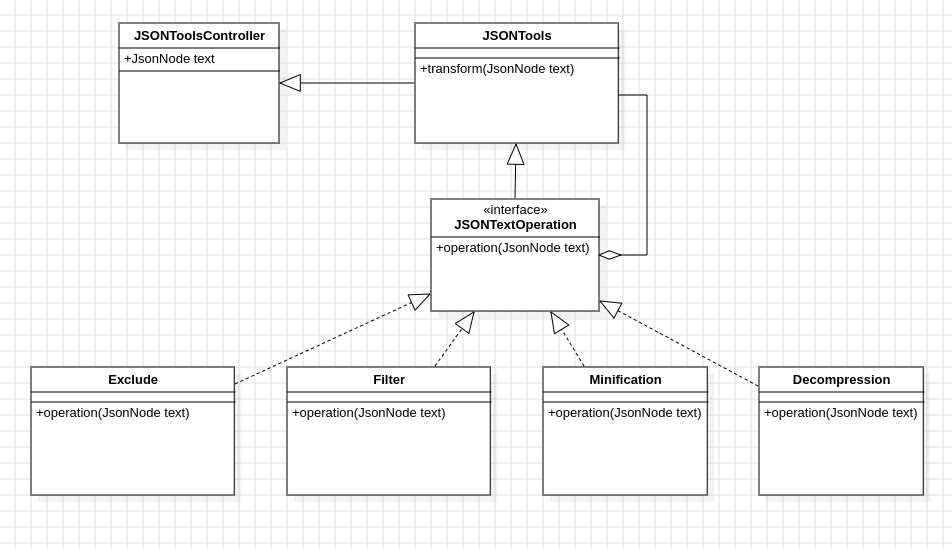
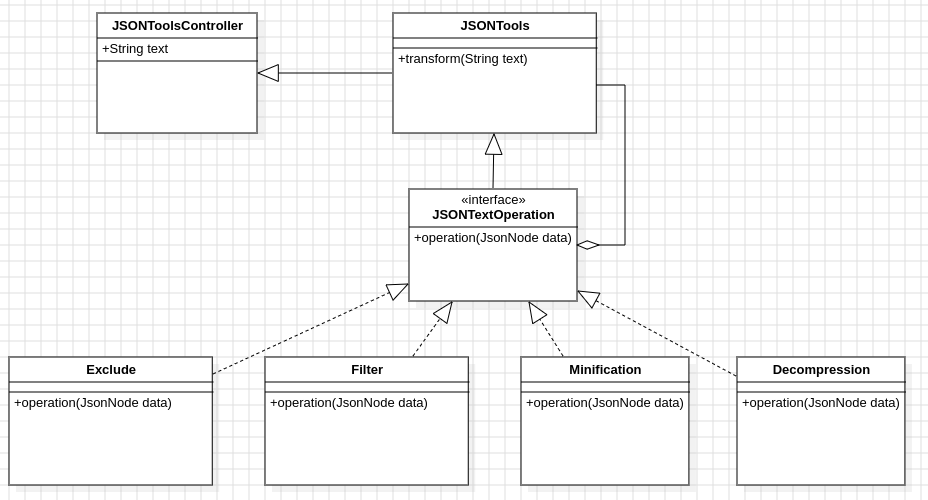
Odciazenie klasy JSONToolsController

diff --git a/src/main/java/pl/put/poznan/jsontools/rest/JSONToolsController.java b/src/main/java/pl/put/poznan/jsontools/rest/JSONToolsController.java
@@ -15,7 +15,6 @@ import java.util.Arrays;
 @RequestMapping("/{text}")
 public class JSONToolsController {
 
-    public JsonNode data;
     private static final Logger logger = LoggerFactory.getLogger(JSONToolsController.class);
 
     @RequestMapping(method = RequestMethod.GET, produces = "application/json")
@@ -25,15 +24,10 @@ public class JSONToolsController {
         // log the parameters
         logger.debug(text);
         logger.debug(Arrays.toString(transforms));
-        //if text is a string, it needs to be transformed into JsonNode
-        try{
-            ObjectMapper objectMapper=new ObjectMapper();
-            data=objectMapper.readTree(text);
-        }
-        catch(Throwable e){}
+
         // perform the transformation, you should run your logic here, below is just a silly example
         JSONTools jsontools = new JSONTools(transforms);
-        return jsontools.transform(data).toString();
+        return jsontools.transform(text);
     }
 
     @RequestMapping(method = RequestMethod.POST, produces = "application/json")
@@ -43,14 +37,10 @@ public class JSONToolsController {
         // log the parameters
         logger.debug(text);
         logger.debug(Arrays.toString(transforms));
-        try{
-            ObjectMapper objectMapper=new ObjectMapper();
-            data=objectMapper.readTree(text);
-        }
-        catch(Throwable e){}
+
         // perform the transformation, you should run your logic here, below is just a silly example
         JSONTools jsontools = new JSONTools(transforms);
-        return jsontools.transform(data).toString();
+        return jsontools.transform(text);
     }
 
 

diff --git a/src/main/java/pl/put/poznan/jsontools/logic/JSONTools.java b/src/main/java/pl/put/poznan/jsontools/logic/JSONTools.java
@@ -1,7 +1,8 @@
 package pl.put.poznan.jsontools.logic;
 import com.fasterxml.jackson.databind.JsonNode;
+import com.fasterxml.jackson.databind.ObjectMapper;
 
-import pl.put.poznan.jsontools.executable.*;
+import pl.put.poznan.jsontools.transforms.*;
 
 /**
  * This is just an example to show that the logic should be outside the REST service.
@@ -9,15 +10,21 @@ import pl.put.poznan.jsontools.executable.*;
 public class JSONTools {
 
     private final String[] transforms;
+    public JsonNode data;
 
     public JSONTools(String[] transforms){
         this.transforms = transforms;
     }
 
-    public JsonNode transform(JsonNode text){
+    public String transform(String text){
+        try{
+            ObjectMapper objectMapper=new ObjectMapper();
+            data=objectMapper.readTree(text);
+        }
+        catch(Throwable e){}
         // of course, normally it would do something based on the transforms
         Minification minification=new Minification();
-        text = minification.operation(text);
+        text = minification.operation(data).toString();
         return text;
     }
 }

diff --git a/src/main/java/pl/put/poznan/jsontools/transforms/Decompression.java b/src/main/java/pl/put/poznan/jsontools/transforms/Decompression.java
@@ -1,10 +1,10 @@
-package pl.put.poznan.jsontools.executable;
+package pl.put.poznan.jsontools.transforms;
 
 import com.fasterxml.jackson.databind.JsonNode;
 
 public class Decompression implements JSONTextOperation{
-    public JsonNode operation(JsonNode text){
+    public JsonNode operation(JsonNode data){
         // decompression of the text from minificatied form
-        return text;
+        return data;
     }
 }

diff --git a/src/main/java/pl/put/poznan/jsontools/transforms/Exclude.java b/src/main/java/pl/put/poznan/jsontools/transforms/Exclude.java
@@ -1,4 +1,4 @@
-package pl.put.poznan.jsontools.executable;
+package pl.put.poznan.jsontools.transforms;
 
 import com.fasterxml.jackson.databind.JsonNode;
 
@@ -10,8 +10,8 @@ public class Exclude implements JSONTextOperation {
         this.filters = filters;
     }
 
-    public JsonNode operation(JsonNode text)
+    public JsonNode operation(JsonNode data)
     {
-        return text;
+        return data;
     }
 }

diff --git a/src/main/java/pl/put/poznan/jsontools/transforms/Filter.java b/src/main/java/pl/put/poznan/jsontools/transforms/Filter.java
@@ -1,4 +1,4 @@
-package pl.put.poznan.jsontools.executable;
+package pl.put.poznan.jsontools.transforms;
 
 import com.fasterxml.jackson.databind.JsonNode;
 
@@ -10,8 +10,8 @@ public class Filter implements JSONTextOperation {
         this.filters = filters;
     }
 
-    public JsonNode operation(JsonNode text)
+    public JsonNode operation(JsonNode data)
     {
-        return text;
+        return data;
     }
 }

diff --git a/src/main/java/pl/put/poznan/jsontools/transforms/Minification.java b/src/main/java/pl/put/poznan/jsontools/transforms/Minification.java
@@ -1,0 +1,10 @@
+package pl.put.poznan.jsontools.transforms;
+
+import com.fasterxml.jackson.databind.JsonNode;
+
+public class Minification implements JSONTextOperation{
+    public JsonNode operation(JsonNode data){
+        // transform text into minificated form
+        return data;
+    }
+}

diff --git a/src/main/java/pl/put/poznan/jsontools/transforms/JSONTextOperation.java b/src/main/java/pl/put/poznan/jsontools/transforms/JSONTextOperation.java
@@ -1,0 +1,7 @@
+package pl.put.poznan.jsontools.transforms;
+
+import com.fasterxml.jackson.databind.JsonNode;
+
+public interface JSONTextOperation {
+    public JsonNode operation(JsonNode data);
+}
